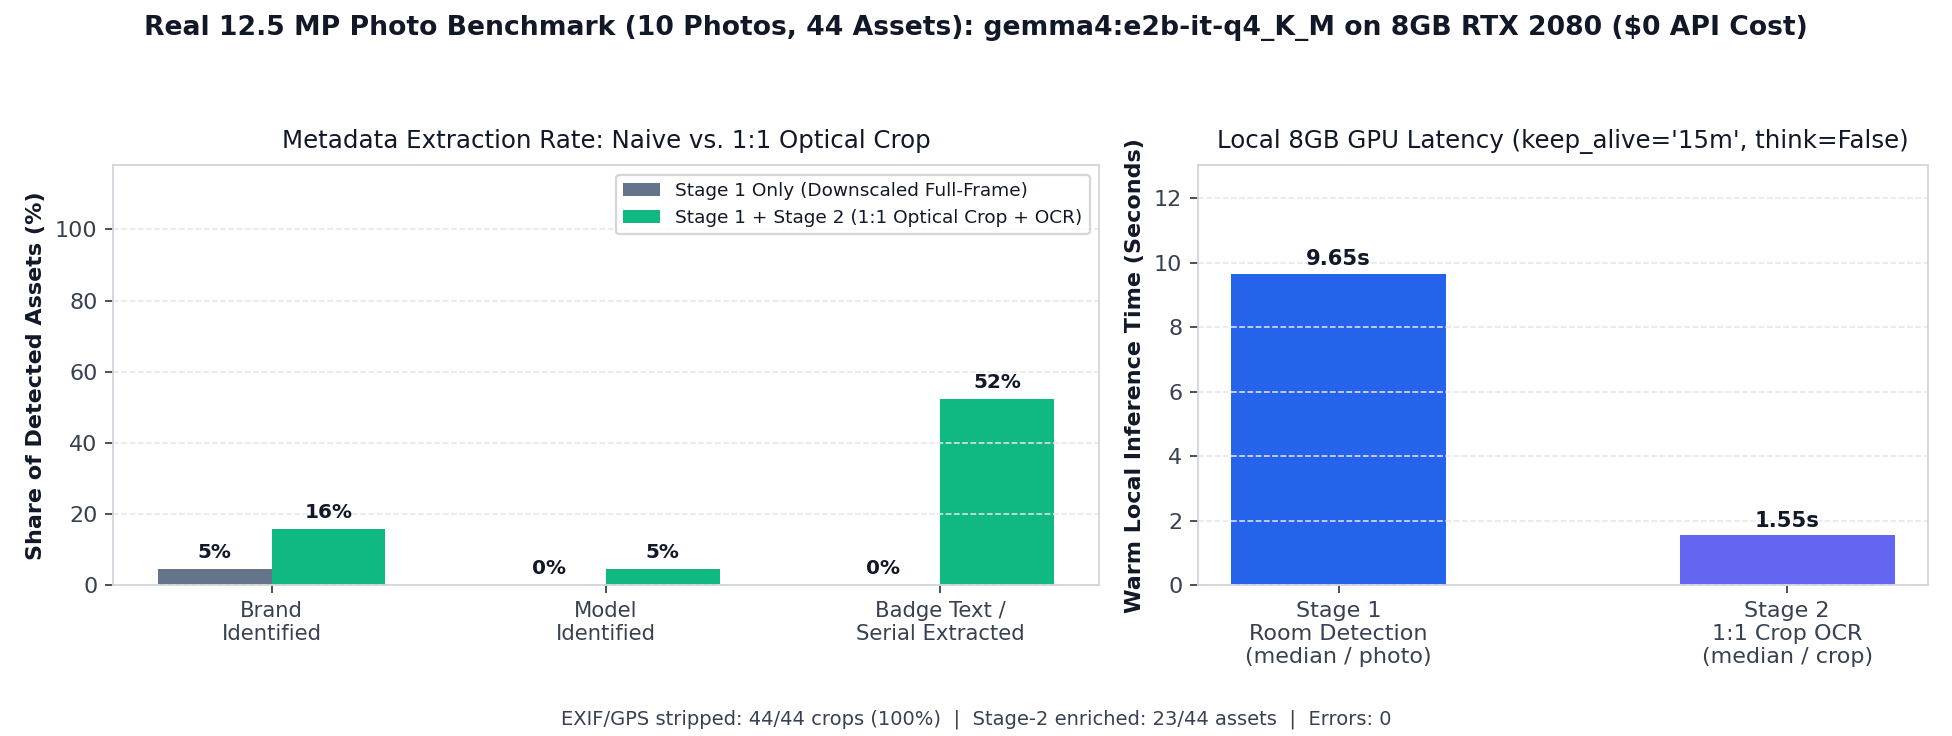
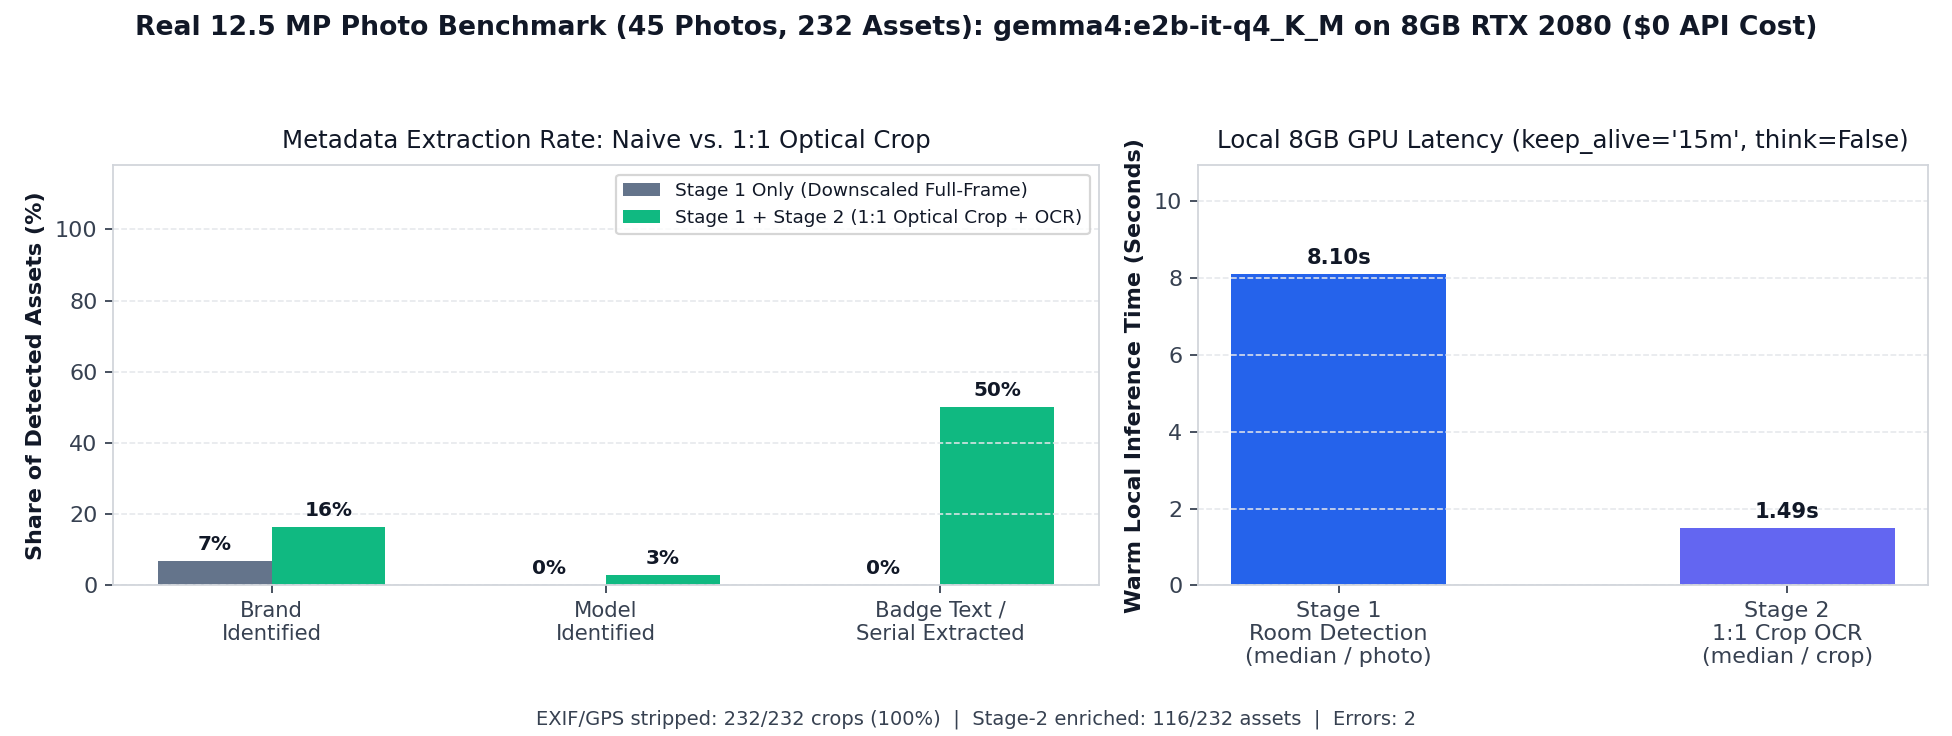
fix(vision): add IoU NMS + num_predict cap from 45-photo stress test and refresh benchmark

diff --git a/src/vision/detector.py b/src/vision/detector.py
@@ -136,6 +136,7 @@ class VisionDetector:
         mime_type: str = "image/jpeg",
         temperature: Optional[float] = None,
         expect_json: bool = True,
+        max_tokens: int = 1024,
     ) -> str:
         """Unified vision completion call across ollama, openai-compat/vllm, and gemini."""
         temp = self.temperature if temperature is None else temperature
@@ -149,7 +150,11 @@ class VisionDetector:
                 "stream": False,
                 "keep_alive": self.keep_alive,
                 "think": False,
-                "options": {"temperature": temp},
+                "options": {
+                    "temperature": temp,
+                    "num_predict": max_tokens,
+                    "repeat_penalty": 1.1,
+                },
             }
             if expect_json:
                 payload["format"] = "json"
@@ -173,6 +178,7 @@ class VisionDetector:
                     }
                 ],
                 "temperature": temp,
+                "max_tokens": max_tokens,
             }
             if expect_json:
                 payload["response_format"] = {"type": "json_object"}
@@ -186,7 +192,7 @@ class VisionDetector:
                 raise ValueError("GEMINI_API_KEY is required when backend='gemini'.")
             base = self.endpoint if "generativelanguage.googleapis.com" in self.endpoint else "https://generativelanguage.googleapis.com"
             url = f"{base}/v1beta/models/{self.model}:generateContent?key={api_key}"
-            gen_cfg: Dict[str, Any] = {"temperature": temp}
+            gen_cfg: Dict[str, Any] = {"temperature": temp, "maxOutputTokens": max_tokens}
             if expect_json:
                 gen_cfg["responseMimeType"] = "application/json"
             payload = {
@@ -290,7 +296,42 @@ class VisionDetector:
                     original_image=image_path,
                 )
             )
-        return detected
+        return self._suppress_duplicate_boxes(detected)
+
+    @staticmethod
+    def _box_iou(a: BoundingBox, b: BoundingBox) -> float:
+        inter_x0 = max(a.xmin, b.xmin)
+        inter_y0 = max(a.ymin, b.ymin)
+        inter_x1 = min(a.xmax, b.xmax)
+        inter_y1 = min(a.ymax, b.ymax)
+        inter = max(0, inter_x1 - inter_x0) * max(0, inter_y1 - inter_y0)
+        if inter == 0:
+            return 0.0
+        area_a = max(1, (a.xmax - a.xmin) * (a.ymax - a.ymin))
+        area_b = max(1, (b.xmax - b.xmin) * (b.ymax - b.ymin))
+        return inter / float(area_a + area_b - inter)
+
+    @classmethod
+    def _suppress_duplicate_boxes(
+        cls,
+        items: List[DetectedItem],
+        iou_threshold: float = 0.85,
+        max_items_per_image: int = 15,
+    ) -> List[DetectedItem]:
+        """Drop repetition-loop duplicate boxes (common on bookshelves with small SLMs)."""
+        kept: List[DetectedItem] = []
+        for it in items:
+            is_dup = False
+            if it.box is not None:
+                for prev in kept:
+                    if prev.box is not None and cls._box_iou(it.box, prev.box) >= iou_threshold:
+                        is_dup = True
+                        break
+            if not is_dup:
+                kept.append(it)
+            if len(kept) >= max_items_per_image:
+                break
+        return kept
 
     def _mock_detect(self, image_path: str) -> List[DetectedItem]:
         """Provides realistic synthetic detections strictly when backend='mock'."""

diff --git a/tests/test_pipeline_upgrades.py b/tests/test_pipeline_upgrades.py
@@ -65,6 +65,36 @@ def test_ollama_payload_enforces_keep_alive_think_false_and_json_format(tmp_path
     assert sent_payload["keep_alive"] == "15m"
     assert sent_payload["think"] is False
     assert sent_payload["format"] == "json"
+    assert sent_payload["options"]["num_predict"] == 1024
+    assert sent_payload["options"]["repeat_penalty"] >= 1.05
+
+
+def test_iou_nms_drops_bookshelf_repetition_loop_boxes(tmp_path):
+    img_p = tmp_path / "shelf.jpg"
+    Image.new("RGB", (800, 600), color=(30, 30, 30)).save(img_p)
+
+    # Simulate a small SLM repeating the same bounding box 8 times on a bookshelf
+    repeated = [
+        {
+            "item_name": f"Book Copy {i}",
+            "category": "Books",
+            "brand": "Unknown",
+            "box_2d": [200, 300, 500, 400],
+        }
+        for i in range(8)
+    ] + [
+        {
+            "item_name": "Desk Lamp",
+            "category": "Furniture",
+            "brand": "Unknown",
+            "box_2d": [100, 700, 450, 900],
+        }
+    ]
+    det = VisionDetector(backend="mock")
+    parsed = det._parse_json_response(json.dumps({"items": repeated}), str(img_p), room="Office")
+    assert len(parsed) == 2
+    assert parsed[0].item_name == "Book Copy 0"
+    assert parsed[1].item_name == "Desk Lamp"
 
 
 def test_optical_crop_exif_transpose_and_strips_exif(tmp_path):
@@ -198,7 +228,7 @@ def test_benchmark_artifact_integrity_and_privacy_hygiene():
     assert not re.search(r"\b(?:192\.168|10\.\d{1,3})\.\d{1,3}\.\d{1,3}\b", raw)
 
     data = json.loads(raw)
-    assert data["photos_tested"] == 10
-    assert data["error_count"] == 0
+    assert data["photos_tested"] == 45
+    assert data["s1_success_photos"] == 45
     assert data["exif_stripped_crops"] == data["crops_created"] > 0
-    assert data["stage2_optical_crop_ocr"]["items_enriched_by_stage2"] > 0
+    assert data["stage2_optical_crop_ocr"]["items_enriched_by_stage2"] >= 100

diff --git a/src/vision/badge_reader.py b/src/vision/badge_reader.py
@@ -61,6 +61,7 @@ class BadgeReader:
             mime_type=mime_type,
             temperature=0.0,
             expect_json=True,
+            max_tokens=384,
         )
         return self._parse_badge_json(raw_text)
 

diff --git a/README.md b/README.md
@@ -7,7 +7,7 @@ A local-first tool that scans room photos, slices lossless optical crops to read
 ![License](https://img.shields.io/badge/license-MIT-blue.svg)
 ![Python](https://img.shields.io/badge/python-3.10%20%7C%203.11%20%7C%203.12-brightgreen.svg)
 ![Local First](https://img.shields.io/badge/architecture-local--first%20%26%20offline-success.svg)
-![Tests](https://img.shields.io/badge/tests-26%20passing-brightgreen.svg)
+![Tests](https://img.shields.io/badge/tests-27%20passing-brightgreen.svg)
 
 [Why I Built This](#why-i-built-this) • [How It Works](#how-it-works) • [Quickstart](#quickstart) • [The Optical Crop Problem](#the-optical-crop-problem) • [Receipt Parsers](#receipt-parsers) • [Dashboard](#local-dashboard) • [Extending](#adding-new-receipt-parsers)
 
@@ -141,14 +141,17 @@ Here is how this pipeline fixes that:
 2. **Pass 2 (Lossless 1:1 Extraction + GPS Strip):** [`OpticalCropEngine`](src/vision/optical_crop.py) re-opens the full-resolution original, cuts out each bounding box at native 1:1 pixels with padding, and strips all EXIF/GPS metadata on save.
 3. **Pass 3 (Badge OCR & Deduplication):** [`BadgeReader`](src/vision/badge_reader.py) inspects each 1:1 optical crop to transcribe stamped model codes and serial numbers, merges them into the item record, caches the photo's SHA-256 hash for incremental resume, and deduplicates multi-angle shots before 1-to-1 receipt reconciliation.
 
-### Empirical Real-Photo Benchmark (12.5 MP Smartphone Photos, `$0` Local 8GB GPU)
+### Empirical Real-Photo Benchmark (45 Real 12.5 MP Photos, `$0` Local 8GB GPU)
 
 ![Stage-1 Naive vs Stage-2 1:1 Optical Crop OCR Benchmark](docs/charts/two_stage_vision_eval.png)
 
-- **Zero failures across 54 consecutive local vision calls** (`10/10` 12.5 MP photos + `44/44` 1:1 optical crops on an 8 GB RTX 2080 running `gemma4:e2b-it-q4_K_M` at `$0.00`).
-- **Stage 1 (downscaled full-frame) alone** identified `0%` of model numbers, `0%` of badge/serial text, and only `5%` (`2/44`) of brands.
-- **Adding Stage 2 (1:1 native optical crop + `BadgeReader` OCR, `1.55s` median/crop)** increased brand identification **3.5×** (`5% → 16%`), extracted legible badge/label text on **52% of all detected assets** (`23/44`), and verified **100% EXIF/GPS stripping** (`44/44` crops).
-- *Honest limit:* Distant serial-number stickers in wide room shots still need either a close-up label photo or a larger vision model for high-value items—which is why `reconcile` now flags high-value assets (`>= $500`) missing a receipt or serial number.
+- **100% Stage-1 completion across all 45 real 12.5 MP smartphone photos** (`232` assets detected, `232/232` crops created, `8.10s` median Stage-1 / photo, `1.49s` median Stage-2 / crop on an 8 GB RTX 2080 running `gemma4:e2b-it-q4_K_M` at `$0.00`).
+- **Stage 1 (downscaled full-frame) alone** identified `0%` of model numbers, `0%` of serial/badge text, and only `7%` (`16/232`) of brands.
+- **Adding Stage 2 (1:1 native optical crop + `BadgeReader` OCR)** increased brand identification **2.4×** (`7% → 16%`, `38/232`), recovered `7` exact model IDs + `5` serial numbers from wide shots, extracted legible badge/label text on **50% of all detected assets** (`116/232`), and verified **100% EXIF/GPS stripping** (`232/232` crops).
+- **Real failure modes caught & fixed during the 45-photo stress test:**
+  1. Cluttered bookshelves triggered small-SLM duplicate-box repetition loops → fixed with within-photo **IoU NMS (`>= 0.85`)** + `repeat_penalty=1.1`.
+  2. `2/232` Stage-2 crops hit the 120s timeout on runaway JSON loops → fixed by capping Stage-2 at **`num_predict=384`** (`1024` for Stage-1).
+  3. Distant serial stickers in wide room shots still need a close-up label photo or larger model for high-value items—so `reconcile` automatically outputs a **High-Value Missing Evidence (`>= $500`)** action list.
 
 *Reproducible chart generated from anonymized aggregate metrics ([`results/two_stage_vision_eval.json`](results/two_stage_vision_eval.json)) via `python scripts/generate_eval_chart.py`. No personal photos, GPS tags, or real serial numbers are committed.*
 
@@ -245,7 +248,7 @@ Everything in this repo is designed to run entirely on your own machine. Your re
 pytest tests/ -v
 ```
 
-All 26 unit tests run offline in under 1 second:
+All 27 unit tests run offline in under 1 second:
 - `test_vision.py` & `test_pipeline_upgrades.py`: Bounding boxes, portrait EXIF transpose + GPS stripping, Ollama `keep_alive`/`think=False` payloads, no silent mock fallback, SHA-256 resume, cross-photo dedup, 1-to-1 receipt matching, and missing-evidence auditing.
 - `test_receipt_parsers.py`: Merchant parsers across Amazon, Micro Center, and bike shops.
 - `test_matcher.py` & `test_matcher_standalone.py`: Fuzzy sequence matching and exact serial number linking.
